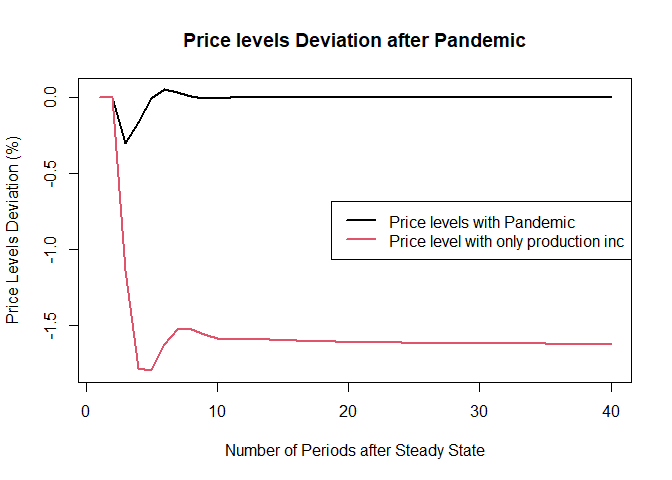
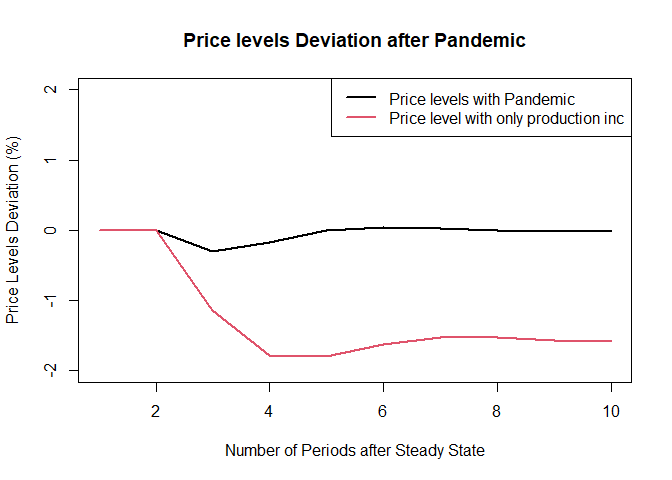
edits plots

diff --git a/Simulating-Shocks-in-Input-Output-Models.md b/Simulating-Shocks-in-Input-Output-Models.md
@@ -480,8 +480,8 @@ Below is the evolution of consumption in Canada and USA following the
 shock implemented above.
 
 ``` r
-ts.plot(cbind((100*(shock_rUS$C_CA[3:100]/shock_rUS$C_CA[1]-1)),(100*
-        (shock_rUS$C_US[3:100]/shock_rUS$C_US[1]-1))),main="Canada and USA Consumption levels",col=1:2,lwd=2, xlab = "Number of Periods after Steady State", ylab = "Consumption Deviation (%)")
+ts.plot(cbind((100*(shock_rUS$C_CA[3:60]/shock_rUS$C_CA[1]-1)),(100*
+        (shock_rUS$C_US[3:60]/shock_rUS$C_US[1]-1))),main="Canada and USA Consumption levels",col=1:2,lwd=2, xlab = "Number of Periods after Steady State", ylab = "Consumption Deviation (%)")
 legend('bottomright',legend=c("C_CA", "C_US"),col=1:2,lty=1,lwd=2)
 ```
 
@@ -852,7 +852,7 @@ shock_p <- sfcr_scenario(
   periods = nper
 )
 
-ts.plot(100*(shock_p$P[1:40]/shock_p$P[1]-1),main="Evolution of new Price Levels", ylab
+ts.plot(100*(shock_p$P[1:15]/shock_p$P[1]-1),main="Evolution of new Price Levels", ylab
         ="Price Level Deviation (%)", xlab = "Number of Periods after Steady State")
 ```
 
@@ -862,10 +862,11 @@ On the same graph, trace the evolution of real wage, nominal wage, and
 unit cost of production.
 
 ``` r
-ts.plot(cbind((100*(shock_p$W[1:40]/shock_p$W[1]-1)), (100*(shock_p$Wn[1:40]/
-shock_p$Wn[1]-1)), (100*(shock_p$UCn[1:40]/shock_p$UCn[1]-1))),main="Deviation of Marginal Cost of Production, Real, and Nominal Wages", ylim=c(-2.5,2.5),col=1:3,lwd=2, xlab = "Number of Periods after Steady State after Steady State after Steady State", ylab ="Deviation (%)")
+ts.plot(cbind((100*(shock_p$W[1:10]/shock_p$W[1]-1)), (100*(shock_p$Wn[1:10]/
+shock_p$Wn[1]-1)), (100*(shock_p$UCn[1:10]/shock_p$UCn[1]-1))),ylim=c(-2.5,2.5),col=1:3,lwd=2, xlab = "Number of Periods after Steady State", ylab ="Deviation (%)")
+title(main="Deviation of Marginal Cost of Production, Real, and Nominal Wages", adj=0, line = 1, font.main = 1)
 legend("top",legend=c("Real Wages", "Nominal Wages", "Marginal cost of
-production"), col=1:3, lty=1,lwd=2, cex=0.6, ncol=3)
+production"), col=1:3, lty=1,lwd=2, cex=0.8, ncol=3)
 ```
 
 ![](Figs/unnamed-chunk-25-1.png)<!-- -->
@@ -878,10 +879,10 @@ increasing production
 Plot the evolution of real consumption and nominal consumption:
 
 ``` r
-ts.plot(cbind((100*(shock_p$C[1:40]/shock_p$C[1]-1)), (100*(shock_p$Cn[1:40]/
-shock_p$Cn[1]-1))),main="Deviation of Real and Nominal
-Consumption",col=1:2,lwd=2, xlab = "Number of Periods after Steady State", ylab = "Deviation (%)")
-legend('right',legend=c("Real Consumption", "Nominal Consumption"),col=1:2,lty=1,lwd=2)
+ts.plot(cbind((100*(shock_p$C[1:10]/shock_p$C[1]-1)), (100*(shock_p$Cn[1:10]/
+shock_p$Cn[1]-1))),ylim=c(-2,2),col=1:2,lwd=2, xlab = "Number of Periods after Steady State", ylab = "Deviation (%)")
+title(main="Deviation of Marginal Cost of Production, Real, and Nominal Wages", adj=0, line = 1, font.main = 1)
+legend('bottomright',legend=c("Real Consumption", "Nominal Consumption"),col=1:2,lty=1,lwd=2)
 ```
 
 ![](Figs/unnamed-chunk-26-1.png)<!-- -->
@@ -915,10 +916,11 @@ shock_N <- sfcr_scenario(
 )
 
 
-ts.plot(cbind((100*(shock_N$P[1:40]/shock_N$P[1]-1)),(100*(shock_p$P[1:40]/
-        shock_p$P[1]-1))),main="Price levels Deviation after Pandemic",col=1:2,lwd=2, ylab
+ts.plot(cbind((100*(shock_N$P[1:10]/shock_N$P[1]-1)),(100*(shock_p$P[1:10]/
+        shock_p$P[1]-1))), ylim=c(-2,2),col=1:2,lwd=2, ylab
         ="Price Levels Deviation (%)", xlab = "Number of Periods after Steady State")
-legend('right',legend=c("Price levels with Pandemic", "Price level with only production inc"),col=1:2,lty=1,lwd=2)
+title(main="Price levels Deviation after Pandemic")
+legend('topright',legend=c("Price levels with Pandemic", "Price level with only production inc"),col=1:2,lty=1,lwd=2)
 ```
 
 ![](Figs/unnamed-chunk-27-1.png)<!-- -->
@@ -931,7 +933,7 @@ Finally, plot the evolution of real and nominal consumption following
 the above shock.
 
 ``` r
-ts.plot(cbind((100*(shock_N$C[1:40]/shock_N$C[1]-1)),(100*(shock_N$Cn[1:40]/
+ts.plot(cbind((100*(shock_N$C[1:15]/shock_N$C[1]-1)),(100*(shock_N$Cn[1:15]/
         shock_N$Cn[1]-1))),main="Real and Nominal Consumption after Pandemic",col=1:2,lwd=2, ylab
         ="Consumption Deviation (%)", xlab = "Number of Periods after Steady State")
 legend('topright',legend=c("Real Consumption", "Nominal Consumption"),col=1:2,lty=1,lwd=2)
